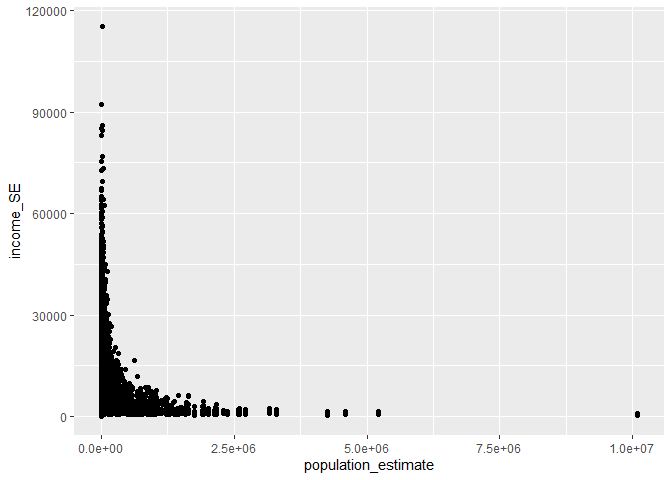
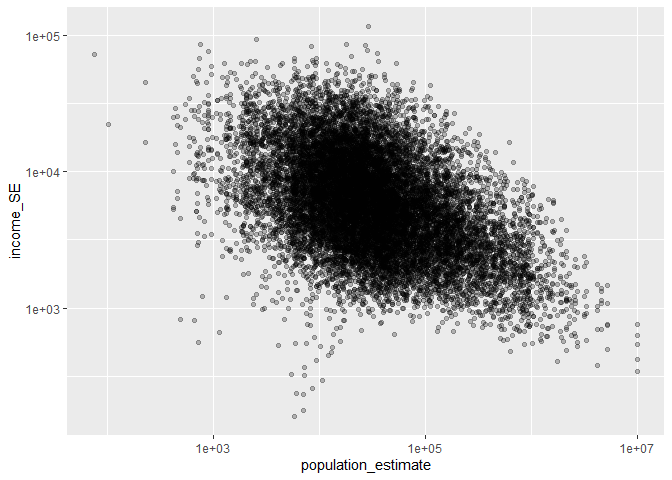
income challenge revisions

diff --git a/challenges/c09-income-assignment.md b/challenges/c09-income-assignment.md
@@ -553,7 +553,9 @@ df_data %>%
     county = fct_reorder(county, income_estimate)
   ) %>%
   ggplot() + 
-  geom_point(mapping = aes(x = population_estimate, y = income_SE))
+  geom_point(mapping = aes(x = population_estimate, y = income_SE), alpha=0.25) +
+  scale_x_log10() +
+  scale_y_log10() 
 ```
 
     ## Warning: Removed 814 rows containing missing values (`geom_point()`).
